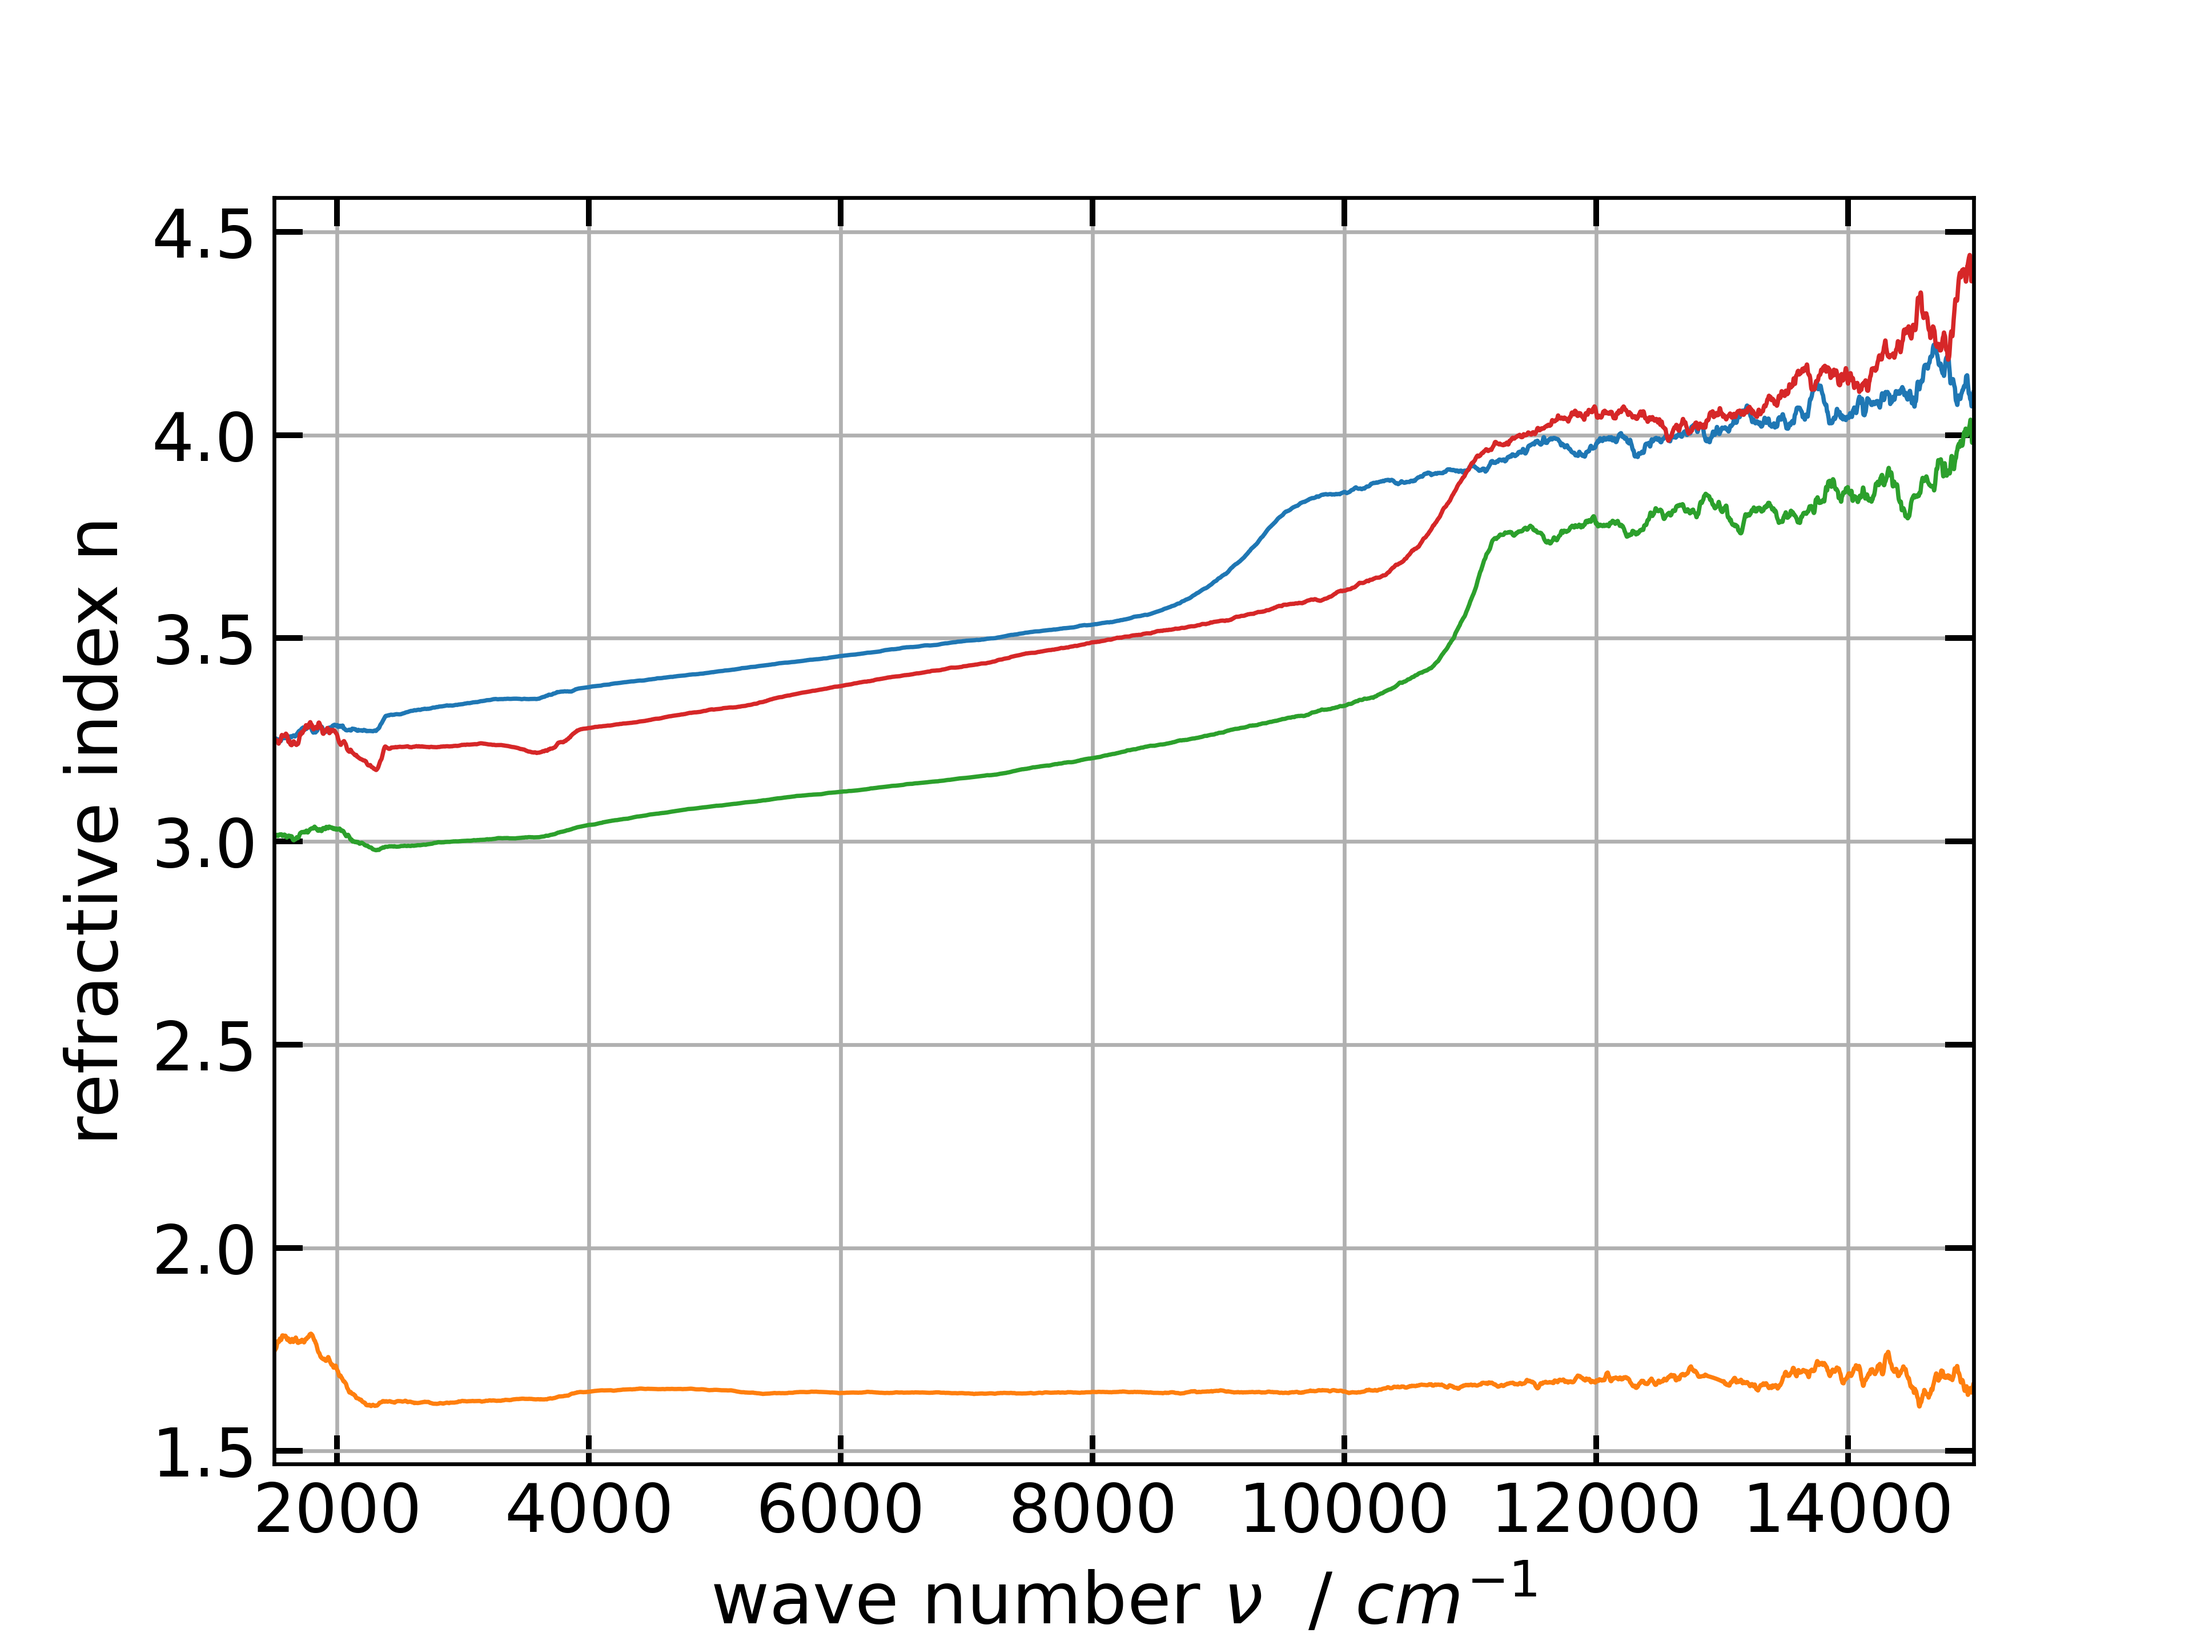
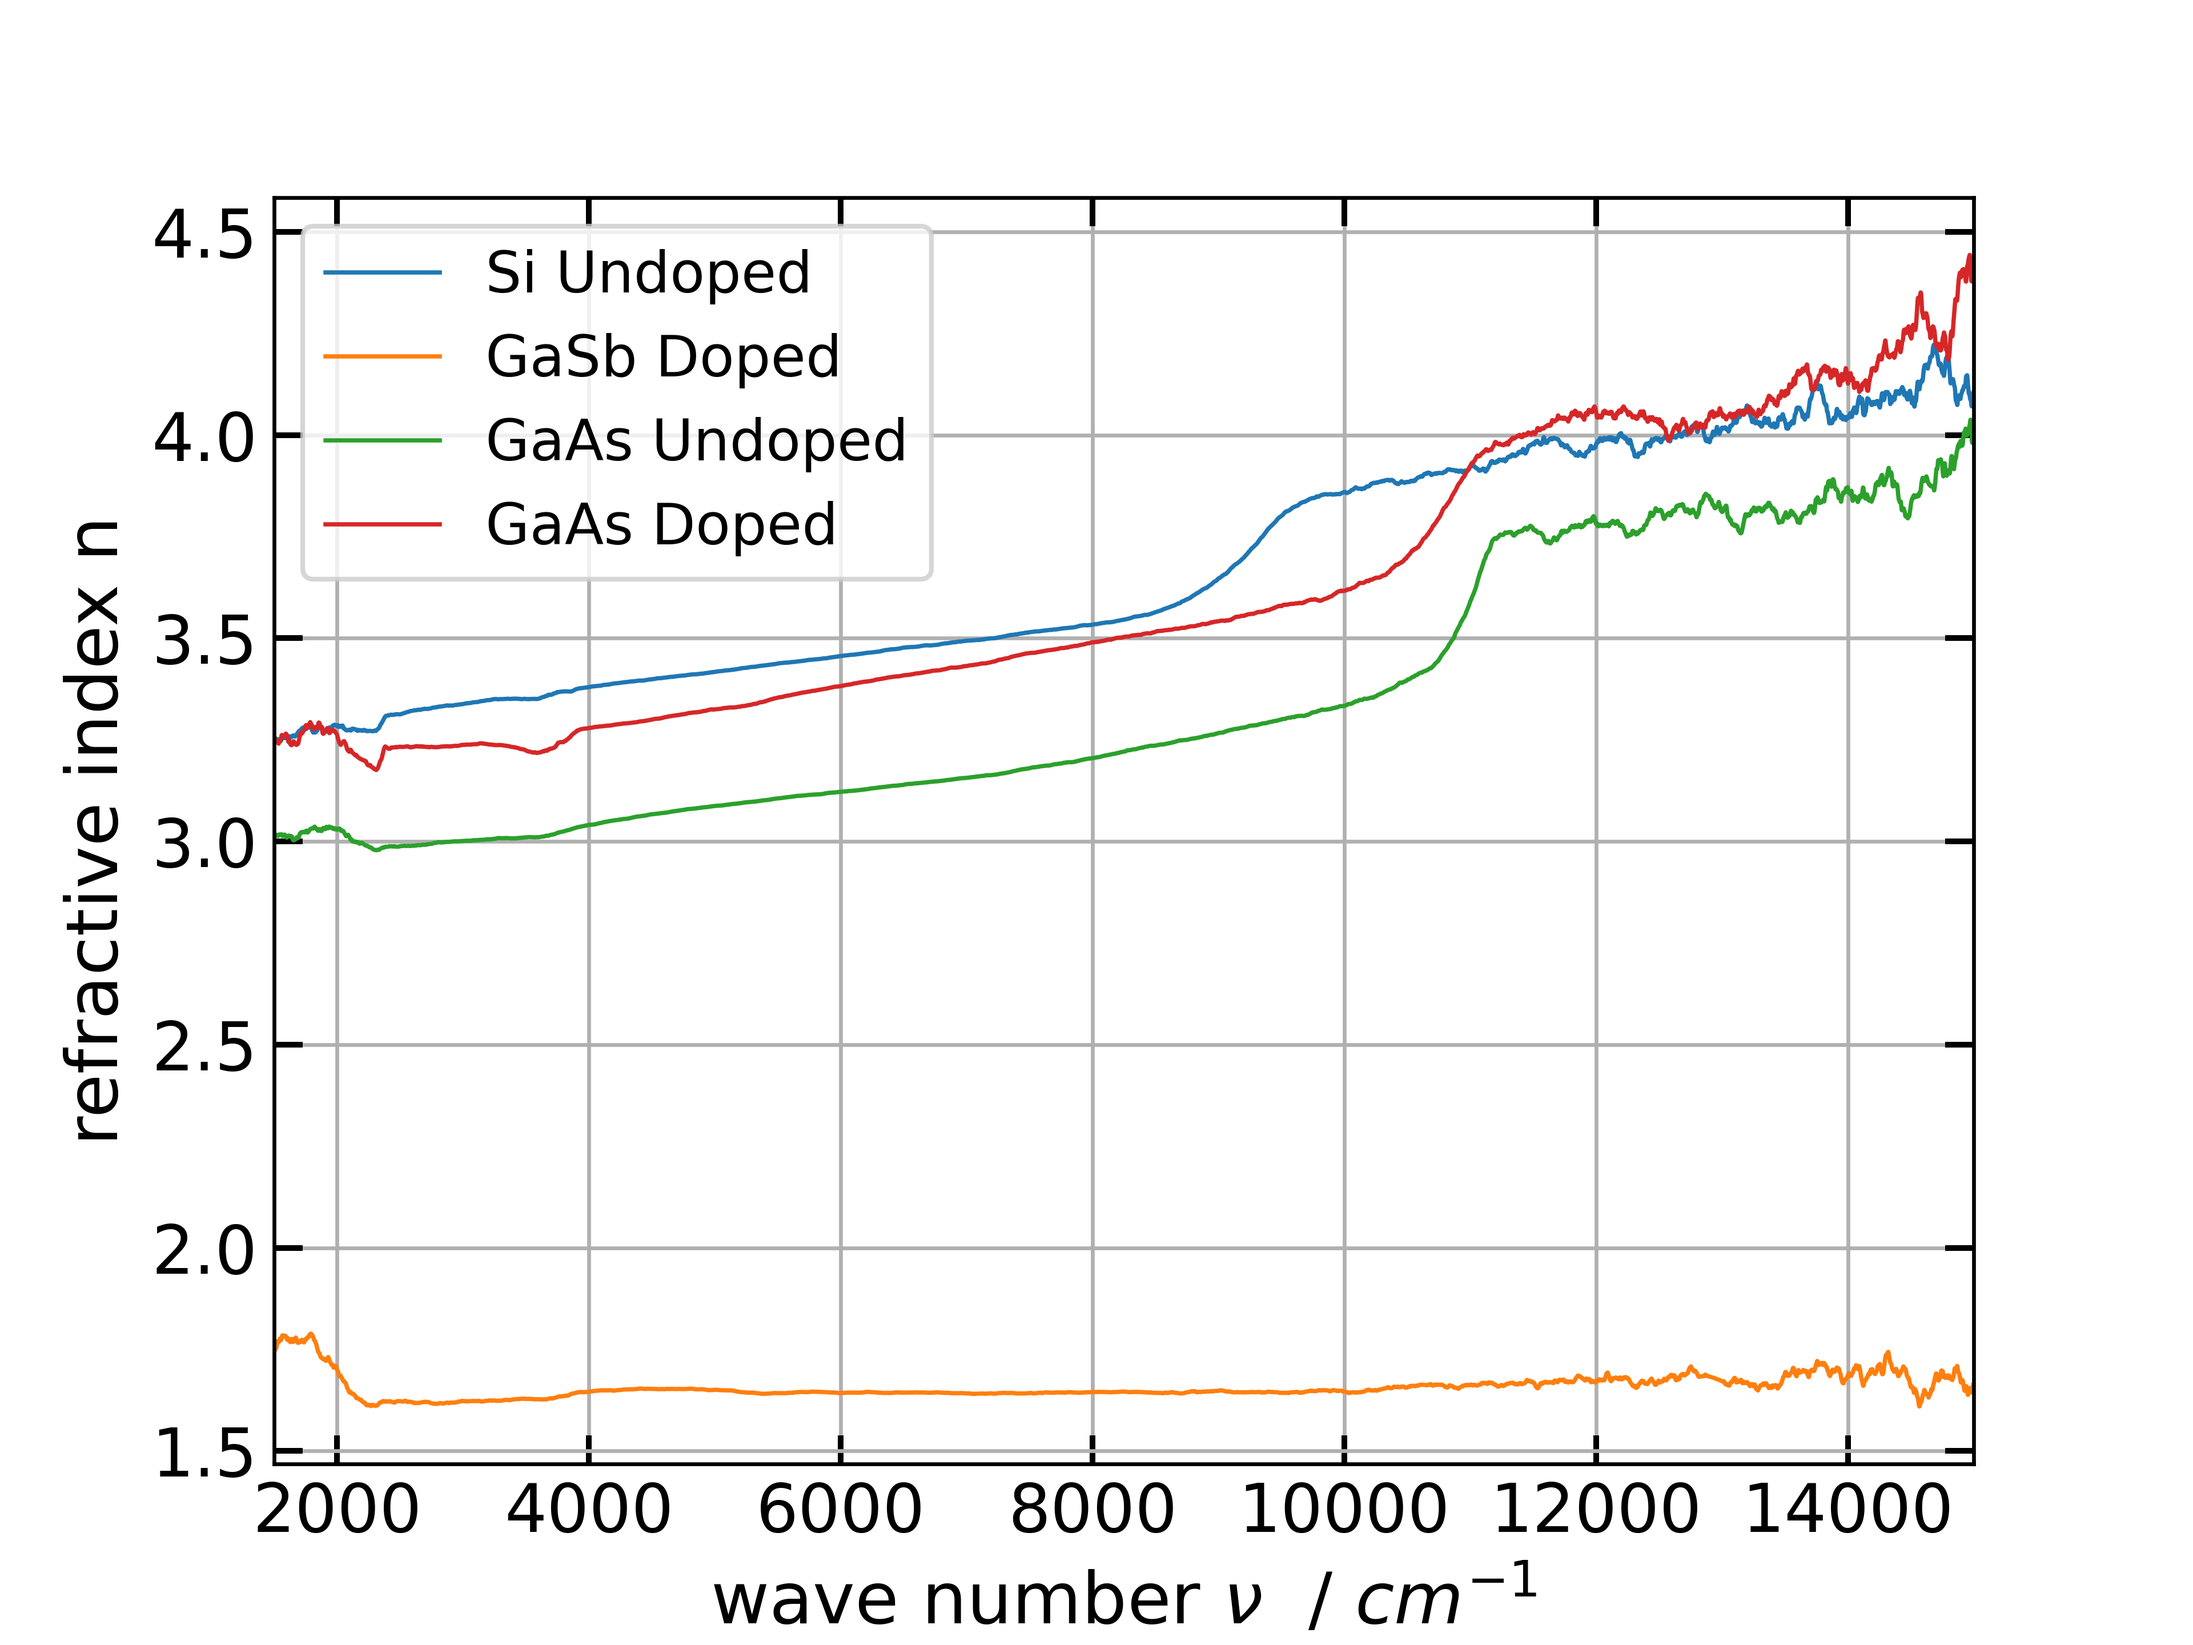
korrekturDieErste

Changed region(s): [[0.125, 0.125, 0.4375, 0.3438], [0.2188, 0.3125, 0.4062, 0.3438]]

diff --git a/SolidStateOptics/exp4.py b/SolidStateOptics/exp4.py
@@ -8,6 +8,7 @@ from Frauen import bügeln
 import os, sys
 sys.path.insert(1, "/".join(os.path.realpath(__file__).split("/")[0:-2]))
 from macroswriter import writeLatexMacro
+from countTo50 import plot_Discrete_ns_for_comparison
 
 
 e = const.e  # Elementary charge in Coulombs
@@ -50,6 +51,13 @@ samplesOhneSiUn = [
         (reflectionGaSbDo, transmissionGaSbDo, "GaSb Doped", 500*10**-6),
         (reflectionGaAsUnDo, transmissionGaAsUnDo, "GaAs Undoped", 470*10**-6),
         (reflectionGaAsDo, transmissionGaAsDo, "GaAs Doped", 440*10**-6)
+        
+    ]
+
+samplesOhneSiUnVergleich = [
+    (reflectionSiUnDo, transmissionSiUnDo, "Si Undoped", 530*10**-6,'blue'),
+        (reflectionGaAsUnDo, transmissionGaAsUnDo, "GaAs Undoped", 470*10**-6, 'green'),
+        (reflectionGaAsDo, transmissionGaAsDo, "GaAs Doped", 440*10**-6, 'red')
         
     ]
 
@@ -107,7 +115,27 @@ def plot_the_ns(glättwert=0.02):
         plot_data(bügeln(n, glättwert), label=label)
     plt.xlabel(r'wave number $\nu$  / ' + r'$cm^{-1}$')
     plt.ylabel('refractive index n')
+    plt.legend(fontsize=12)
     save_and_open('RefractiveIndicesSmooth')
+    
+    
+def plot_the_ns_vergleich(glättwert=0.02):
+    plt.figure()
+    for reflection, transmission, label, d, color in samplesOhneSiUnVergleich:
+        n = []
+        for i in calculate_k_n1_kappa(reflection, transmission, d):
+            n.append([i[0], i[1]])
+        plot_data(bügeln(n, glättwert), label=label, color = color)
+    plt.xlabel(r'wave number $\nu$  / ' + r'$cm^{-1}$')
+    plt.ylabel('refractive index n')
+    plot_Discrete_ns_for_comparison()
+    plt.ylim(2.8,4.2)
+    plt.xlim(1800, 10500)
+    
+    plt.legend(fontsize=12)
+    save_and_open('RefractiveIndicesVergleich')
+
+
      
 def plot_the_betas(title="foo", glättwert=1):
     plt.figure()
@@ -299,6 +327,8 @@ def plotKomischeIndirectFunction(reflection, transmission, d, k_min, k_max, k1_m
     hquerOMEGA = (x_intercept2-x_intercept1)/2*100*c*hbar/e*2*np.pi
     hquerOMEGA_fehler = x_fehler_gesamt*100*c*hbar/e*2*np.pi
     
+    writeLatexMacro("OMEGA_" + title, hquerOMEGA/hbar, 'Hz', hquerOMEGA_fehler/hbar) # ist der gleiche fehler wie für die bandgap
+     
     writeLatexMacro("bandgap_" + title, bandgap, 'eV', bandgap_fehler)
     writeLatexMacro("hquerOMEGA_" + title, hquerOMEGA, 'eV', hquerOMEGA_fehler) # ist der gleiche fehler wie für die bandgap
     
@@ -338,9 +368,9 @@ def plot_transmissions(glättwert=0.01):
     save_and_open("Low_Res_Transmissions")
 
 
-plotKomischeIndirectFunction(reflectionSiUnDo, transmissionSiUnDo, d=530*10**-6, k_min=7500, k_max=11000,
-                              k1_min_regression=8450, k1_max_regression=9100, k2_min_regression=9450, k2_max_regression=10200,
-                              glättwert=0.01, title="Si_Undoped")
+#plotKomischeIndirectFunction(reflectionSiUnDo, transmissionSiUnDo, d=530*10**-6, k_min=7500, k_max=11000,
+#                              k1_min_regression=8450, k1_max_regression=9100, k2_min_regression=9450, k2_max_regression=10200,
+#                              glättwert=0.01, title="Si_Undoped")
 
 
 #plot_the_kappas(glättwert=0.9, title="kappa")
@@ -348,6 +378,8 @@ plotKomischeIndirectFunction(reflectionSiUnDo, transmissionSiUnDo, d=530*10**-6,
 #plot_the_betas(title="betas", glättwert=0.9)
 
 #plot_the_ns(0.005)
+
+plot_the_ns_vergleich()
 
 #Die macht keinen Sinn, ist indirekt!! plotKomischeFunktion(reflectionSiUnDo, transmissionSiUnDo, 9000, 11000, 10050, 10250, samplesOhneSiUn[0][3], glättwert=0.1, title="Si Undoped")
 #plotKomischeFunktion(reflectionGaSbDo, transmissionGaSbDo, 5000, 6000, 5600, 5680, samplesOhneSiUn[1][3], factor_GaSb ,glättwert=0.1, title="GaSb Doped")

diff --git a/SolidStateOptics/countTo50.py b/SolidStateOptics/countTo50.py
@@ -98,8 +98,30 @@ def plot_the_ns(windowsize=200):
     save_and_open("RefractiveIndicesDiscrete")
 
 
+def plot_Discrete_ns_for_comparison(windowsize=200):
+    colors = ['blue', 'green', 'red', 'purple', 'orange']  # Add a list of colors
+    for idx, (data, label, d, prominence, nu_min, nu_max) in enumerate(samplesOhneSiUn):
+        ns = []
+        for nu in range(nu_min, nu_max, 500):
+            ns.append(calculate_n(data, d, nu, windowsize, prominence=prominence))
+            error = 0.02 * calculate_n(data, d, nu, windowsize, prominence=prominence)
+            # ist die dicke der probe
+            plt.errorbar(nu, ns[-1], yerr=error, fmt='o', color=colors[idx % len(colors)], capsize=5)  # Use color from the list
+        plt.plot([nu for nu in range(nu_min, nu_max, 500)], ns, '.', label=label, markersize=10, color=colors[idx % len(colors)])  # Use color from the list
+
+    #plt.grid(True)
+    #plt.xlabel(plt.gca().get_xlabel(), fontsize=20)
+    #plt.ylabel(plt.gca().get_xlabel(), fontsize=20)
+    #plt.tick_params(axis='both', labelsize=18)
+    #plt.tick_params(axis='both', direction='in', which='both', top=True, right=True)
+    #plt.tick_params(axis='both', length=6, width=1.2)
+    #plt.xlabel(r'wave number $\nu$ / ' + r'$cm^{-1}$', fontsize=20)
+    #plt.ylabel(r'refractive index n', fontsize=20)
+    #plt.legend(fontsize=18) 
+    #save_and_open("RefractiveIndicesDiscrete")
+
 #plot_peaks(transmissionSiUnDo, 500, 8000, 150, 0.004, filename="LewiPeak")
-plot_the_ns()
+#plot_the_ns(windowsize=200)
 
 
 # Example usage

diff --git a/Paper/macros.tex b/Paper/macros.tex
@@ -4,8 +4,9 @@
 \newcommand{\pulseMatrixElementGaAsDoped}{\left(6.17 \pm 0.19\right)\cdot 10^{-25}\,\text{$m\, kg s^{-1}$}}
 \newcommand{\bandgapGaSbDoped}{\left(6.891 \pm 0.021\right)\cdot 10^{-1}\,\text{eV}}
 \newcommand{\pulseMatrixElementGaSbDoped}{\left(4.55 \pm 0.21\right)\cdot 10^{-25}\,\text{$m\, kg s^{-1}$}}
-\newcommand{\bandgapSiUndoped}{\left(1.0665 \pm 0.0017\right)\,\text{eV}}
-\newcommand{\hquerOMEGASiUndoped}{\left(5.20 \pm 0.17\right)\cdot 10^{-2}\,\text{eV}}
 \newcommand{\stn}{\left(4.97 \pm 0.25\right)\cdot 10^{-1}}
 \newcommand{\NDichte}{\left(5.900\right)\cdot 10^{28}}
 
+\newcommand{\OMEGASiUndoped}{\left(4.93 \pm 0.16\right) \cdot 10^{32}\,\text{Hz}}
+\newcommand{\bandgapSiUndoped}{\left(1.0665 \pm 0.0017\right) \cdot 10^{0}\,\text{eV}}
+\newcommand{\hquerOMEGASiUndoped}{\left(5.20 \pm 0.17\right) \cdot 10^{-2}\,\text{eV}}

diff --git a/SolidStateOptics/DataPlotter.py b/SolidStateOptics/DataPlotter.py
@@ -5,7 +5,7 @@ from DataReader import read_dpt_file
 
 
 plt.figure(figsize=(10, 6))
-def plot_data(data, label=''):
+def plot_data(data, label='', color=None):
     """
     Plots the data using matplotlib.
 
@@ -16,7 +16,11 @@ def plot_data(data, label=''):
     x_values = [point[0] for point in data]
     y_values = [point[1] for point in data]
     
-    plt.plot(x_values, y_values, '-', linewidth=0.9, label=label)  # Plot as single points
+    if color == None:
+        plt.plot(x_values, y_values, '-', linewidth=0.9, label=label)  # Plot as single points
+    else:
+        plt.plot(x_values, y_values, '-', linewidth=0.9, label=label, color=color)  # Plot as single points
+        
     plt.grid(True)
     plt.xlabel(plt.gca().get_xlabel(), fontsize=15)
     plt.ylabel(plt.gca().get_ylabel(), fontsize=15)

diff --git a/SolidStateOptics/Transmitivity.py b/SolidStateOptics/Transmitivity.py
@@ -5,7 +5,7 @@ from mpl_toolkits.axes_grid1.inset_locator import inset_axes
 from Frauen import bügeln
 
 
-transmission = read_dpt_file(r'.\SolidStateOptics\RawData\Transmission_ex3\GaAs_doped_res03_N50_new_normalized.DPT')
+transmission = read_dpt_file(r'.\SolidStateOptics\RawData\Transmission_ex3\GaAs_undoped_res03_N50_new_normalized.DPT')
 
 x1_inset = 6000
 x2_inset = 6100
@@ -44,4 +44,4 @@ plt.xlabel(r'wave number $\nu$ / ' + r'$cm^{-1}$', fontsize=18)
 plt.ylabel(r'transmission T', fontsize=18)
 plt.xticks(fontsize=18)
 plt.yticks(fontsize=18)
-save_and_open(filename="Transmission_High_Res_GaAs_Doped_N50")#Transmission_High_Res_GaAs_Doped_N50")
+save_and_open(filename="foo")#Transmission_High_Res_GaAs_Doped_N50")
